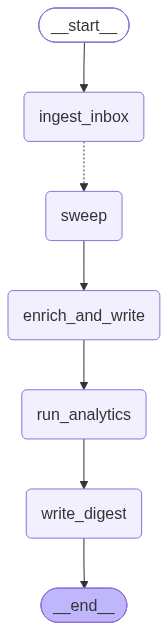
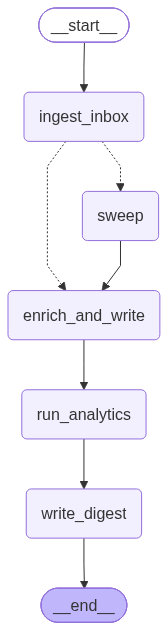
Fix two collect-graph bugs found by the digest-parity check
--skip-enrich only guarded the enrichment phase, not the cluster sweep,
so it still spent minutes probing - its help text promises "no network
calls" and the sweep is where most of them are. In the old script both
sat under one guard; the port kept half of it.

Worse, with no clusters to sweep, fan_out_clusters returned an empty
list. That does not skip the fan-out - it strands the rest of the graph,
because every downstream edge hangs off the node that never ran. The
run reported success and wrote no digest at all. It now routes past the
sweep instead.

Both were invisible until the digest was compared byte for byte: the
first parity check passed only because the digest already on disk was
never rewritten.

With them fixed, the collect graph reproduces the old daily_tracking.py
digest for 2026-09-18 exactly, modulo the Enrichment section that
--skip-enrich omits by design.

Diagrams regenerated for the new edge. 377 tests pass.

diff --git a/graph/nodes/collect.py b/graph/nodes/collect.py
@@ -71,9 +71,23 @@ def fan_out_clusters(state: dict) -> list[Send]:
     sweep is minutes of probe-VM round-trips that do not touch any other
     cluster's data, and they were serialized only because a for-loop is
     the obvious way to write it.
+
+    `skip_enrich` stops the fan-out entirely, not just the enrichment
+    phase. Its help text promises "no network calls", and the sweep is
+    where most of the network calls are - the first port of this kept only
+    the enrichment half of that guard, so --skip-enrich still spent
+    minutes probing.
     """
-    return [Send("sweep", {"cluster": slug, "day": state.get("day")})
-            for slug in state.get("clusters") or []]
+    if state.get("skip_enrich"):
+        return ["enrich_and_write"]
+    sends = [Send("sweep", {"cluster": slug, "day": state.get("day")})
+             for slug in state.get("clusters") or []]
+    # A conditional fan-out that returns nothing does not "skip the fan-out"
+    # - it strands the rest of the graph, because the edges downstream hang
+    # off the node that never ran. With --skip-enrich, or with no clusters
+    # registered yet, that silently produced no digest at all and reported
+    # success. Route past the sweep instead of returning an empty list.
+    return sends or ["enrich_and_write"]
 
 
 def sweep(payload: dict) -> dict:
@@ -105,6 +119,8 @@ def enrich_and_write(state: dict) -> dict:
     }
 
     if state.get("skip_enrich"):
+        sections["pivot_sweep"] = {"clusters_swept": 0, "errors": {},
+                                   "skipped": "skip_enrich"}
         sections["enrich"] = {"skipped": True}
         return {"sections": sections}
 

diff --git a/graph/build.py b/graph/build.py
@@ -29,7 +29,8 @@ def build_collect():
     g.add_edge(START, "ingest_inbox")
     # One `sweep` per cluster, all dispatched together. This is the loop
     # that used to be strictly sequential across eight clusters.
-    g.add_conditional_edges("ingest_inbox", collect.fan_out_clusters, ["sweep"])
+    g.add_conditional_edges("ingest_inbox", collect.fan_out_clusters,
+                            ["sweep", "enrich_and_write"])
     g.add_edge("sweep", "enrich_and_write")
     g.add_edge("enrich_and_write", "run_analytics")
     g.add_edge("run_analytics", "write_digest")

diff --git a/README.md b/README.md
@@ -1,93 +1,197 @@
-# cti-agent
+# cti-graph
 
-Portable capabilities for cross-harness testing (Claude Code, GitHub
-Copilot, Pi), split the way the harnesses expect:
+Threat-cluster tracking as a LangGraph pipeline, over STIX 2.1 and DuckDB.
+
+A fork of [`cti-agent`](../cti-agent) at `096160c`. That repo still works
+and still runs its cron; this one is not a drop-in replacement until you
+cut over deliberately (see **Cutover**).
 
 ```
-skills/threat-cluster-tracking/SKILL.md   # procedural knowledge, portable as-is
-.pi/skills/threat-cluster-tracking/       # same skill, mirrored for Pi's skill loader
-mcp-server/                               # tools: core logic + MCP + CLI surfaces
-  cti_tools/core.py                       # source of truth, no protocol code
-  cti_tools/stix.py                       # STIX 2.1 bundle (de)serialization
-  cti_tools/server.py                     # MCP surface (Claude Code, Copilot, Pi)
-  tests/                                  # pytest against core.py
-data/clusters/                            # local JSON + generated markdown, gitignored
-docs/pipeline.html                        # diagram-led walkthrough of the whole pipeline
-setup.sh                                  # creates the venv, wires .mcp.json
+cti/                    the library
+  store/                DuckDB: schema, observations, the change-detector registry
+  sources/              external data, one module each, over one transport
+  probe/                everything that leaves this host toward an indicator
+  clusters/ report/ attack/ tracking/ mcp/ stix.py
+graph/                  the pipeline
+  nodes/                rank, the four specialists, collect's Stage A nodes
+  prompts/              one prompt per specialist + the shared rules
+sandbox/                the analysis container (built and run ON the probe VM)
+probe_vm/               probe_helper.py + its bootstrap, deployed to the VM
+skills/                 the only committed copy; setup.sh mirrors it per harness
+dashboard/              read-only web UI, incl. the per-run node timeline
+docs/graph-*.mmd/.png   generated from the graph, not drawn by hand
 ```
 
-## How the pipeline fits together
+## What changed from cti-agent, and why
 
-`docs/pipeline.html` is a self-contained page (no build step — open it
-in a browser) walking the path an intel report takes: `ingest_report`'s
-three-phase write, what enrichment is now that the scan platforms are
-retired, which calls leave from this host versus the probe VM, the
-DuckDB change-detection layer, and the two-stage daily cron. Four
-diagrams carry it; read it before the prose in `mcp-server/README.md`
-if you want the shape before the detail.
+### Judgement runs in parallel
+
+Stage B was one `claude -p` pass over a 103-line prompt that encoded
+twelve distinct per-attribute judgements, capped at 3 items and 5 tool
+calls because that was the only way to bound one serial context.
+
+It is now four specialists running concurrently, each with a ~25-line
+prompt covering only the signals it owns, plus a `_common.md` for the
+rules that bind all of them:
+
+| Specialist | Owns |
+|---|---|
+| `infra_change` | `asn`, `ports`, `ptr`, `resolved_ip` |
+| `cert_tls` | `cert`, `cert_hash`, `http` |
+| `hosting` | `ip_hostnames`, `subdomains`, `webamon_fingerprint`, `infostealer_hits` |
+| `opendir` | `opendir_files`, plus sandbox verdicts |
+
+Writes stay centralized in one `persist` node. That is not style: DuckDB's
+write lock is process-exclusive and `connect_retry` retries only the
+connect, never the body, so four specialists calling `save_correlation`
+would surface as "tracking DB busy" rather than queueing.
+
+### Triage happens in code, before any token is spent
+
+`rank` normalizes the digest, scores each row and drops what is provably
+noise. On the 2026-09-18 digest it removes 7 of 16 rows — Cloudflare and
+AWS addresses listing other tenants' domains, kilobytes each, which the
+old single pass paid for in context and then had to reason around.
+
+The ASN list does that work and it has to. The tempting shortcut — "an IP
+listing dozens of unrelated domains is shared hosting" — is wrong:
+`208.91.112.55` carries 48 hostnames and is STAC4749's own infrastructure
+on AS40934, while the Cloudflare and AWS addresses beside it carry 40–50
+each. The counts are indistinguishable; the ASNs are not.
+
+### The pipeline is drawable, and runs are recorded
+
+`python -m graph draw` regenerates `docs/graph-{collect,analyze,daily}.{mmd,png}`
+from the graph object. It replaces `docs/pipeline.html`, which was good
+and had already drifted — drawn against a commit that has since moved,
+with a header that disagreed with `setup.sh` about when Stage B runs.
+
+Every run writes `data/runs/<day>.jsonl`: one record per node with
+timings, outputs and errors. `python -m graph trace --date <day>` prints
+the timeline; the dashboard's **Pipeline runs** view renders it with what
+the ranker suppressed and why.
+
+Stage A is in the same graph even though no model runs in it. The
+question at runtime is "which of these twenty things ran, and which was
+slow" — and half of them are collection. Its cluster sweep now fans out;
+the old loop swept eight clusters strictly one at a time.
+
+### Open-directory files are analyzed on the probe VM
+
+The VM has always *listed* open directories and never downloaded from
+them. `analyze_opendir_samples` fetches named files on the VM and triages
+them in a container with `--network=none`, `--read-only`, `--cap-drop=ALL`
+and no-new-privileges: sha256, detected type, YARA matches, a strings
+sample, extracted URLs and addresses. The staging directory is removed in
+a `finally` block.
+
+Only that JSON crosses the SSH channel. **There is no code path on this
+host that receives file bytes** — which is the requirement, and also why
+the container lives on the VM that did the download rather than here.
+
+It is gated separately from `active_scan`. Listing a directory is
+reconnaissance; downloading staged payloads is collection.
+
+### Redundancy
+
+Thirteen confirmed duplications collapsed — most of them documented in
+the old repo's own comments, which is how they survived. The ones that
+mattered:
+
+- **Ten `_record_*_change` functions and twelve `latest_*_for` queries**
+  → ten `AttributeSpec` entries and one driver. Twenty-two functions,
+  ~500 lines, expressing ten table rows' worth of difference.
+- **Four HTTP transports** → `sources/http.py`, where `via="probe"` vs
+  `via="direct"` makes the OPSEC decision a required argument.
+- **Three file-backed TTL caches** → `sources/cache.py`, one file per
+  key. The pivot cache was an 8.8 MB JSON dict re-read and re-written in
+  full on every miss, under a lock, from a six-thread pool.
+- **Three separately-counted API budgets** → `sources/budget.py`, which
+  reserves under one `flock` before the call. Checking and incrementing
+  separately is exactly the race a fan-out exposes.
+- **Two ASN normalizers that disagreed** — `lstrip("AS")` takes a
+  character set, so `" AS16509"` parsed as `16509` in one and `None` in
+  the other.
+
+### The observations table went narrow
+
+52 columns became a five-column spine plus a JSON `payload`, with an
+`observations_wide` view projecting the original names so the analytics
+SQL, the dashboard and `query_duckdb` are textually unchanged. The old
+table needed 36 idempotent `ALTER TABLE`s on every read-write connect,
+because each new source added columns and retired ones left theirs behind.
+
+Retired-provider columns are kept: they hold real history (154 Shodan
+rows, 20 Cert Spotter rows). So are the five that measure 100% NULL —
+`campaign`, `source_url`, `abuse_contact`, `hl_events_7d` and
+`infostealer_urls` are all still written or read. Empty today is not the
+same as unused.
+
+## Why this is still Python
+
+The HTTP work was already parallel (`ThreadPoolExecutor` in the cluster
+sweep and the fingerprint dispatcher), and nearly all indicator-facing
+traffic is not HTTP from this process at all — it is one JSON object over
+SSH to the probe VM, multiplexed over a shared ControlMaster. The ceiling
+is vendor rate limits (HoneyLabs at 10/min and 400 credits/day, a Webamon
+daily quota, RDAP capped at 150/day), not concurrency. Go would have meant
+reimplementing `vm_proxy`, `stix.py` and the store across a process
+boundary for no measured gain.
+
+## Why the Claude Agent SDK rather than ChatAnthropic
+
+The only LLM call in `cti-agent` was `claude -p`, on a Claude
+subscription; there is no `ANTHROPIC_API_KEY` here. `ChatAnthropic` would
+need one and would bill per token — which matters when the point is to
+run *more* model passes per day. The SDK also speaks MCP natively, so a
+specialist gets `query_duckdb` and `get_actor_summary` by naming them,
+rather than needing a second definition of each tool to keep in sync.
+
+The cost: nodes are async subprocess turns, so the graph is driven with
+`ainvoke`. LangGraph runs async nodes concurrently anyway, which is what
+the fan-out needs.
 
 ## Quick start
 
 ```bash
-./setup.sh
+./setup.sh                      # venv, .mcp.json, skill mirrors
+python -m graph draw            # regenerate the diagrams
+python -m graph collect         # Stage A  (defaults to today)
+python -m graph analyze         # Stage B
+python -m graph analyze --dry-run --date 2026-09-18   # no writes
+python -m graph trace --date 2026-09-18               # node timings
+pytest                          # 377 tests
 ```
 
-This creates `mcp-server/.venv`, installs `cti_tools` into it, and
-rewrites `.mcp.json` with absolute paths for your checkout (MCP stdio
-configs need real paths — see `mcp-server/README.md` for why
-`${workspaceFolder}`-style variables aren't relied on here). Re-run it
-after cloning to a new machine or moving the repo.
+Secrets stay in the environment (`~/.bashrc`, which cron sources):
+`WEBAMON_API_KEY`, `HONEYLABS_API_KEY`, `THREATFOX_API_KEY` (optional).
+Probe VM: `CTI_PROBE_HOST`, `CTI_PROBE_USER`, `CTI_PROBE_SSH_KEY`,
+`CTI_PROBE_KNOWN_HOSTS`, `CTI_PROBE_HELPER_CMD`.
 
-API keys are passed through as env vars (keep them in `~/.bashrc`,
-which cron sources too — never in the repo; `.env` is gitignored):
-`WEBAMON_API_KEY` (Webamon scan-index/infostealer enrichment — the
-passive layer that replaced VirusTotal/Shodan/Hackertarget/Cert
-Spotter), `HONEYLABS_API_KEY` (HoneyLabs honeypot telemetry — both the
-per-IP pivot enrichment and the `honeylabs` remote MCP server that
-`.mcp.json` wires up), and optionally `THREATFOX_API_KEY`. A missing
-key degrades to a skip note or error dict, never a crash.
+## Cutover
 
-Live interaction with an indicator (TLS grab, HTTP probe, DNS,
-subfinder/Wayback, and the on-demand nmap/dirsearch `active_scan`)
-runs from a lab probe VM over SSH, configured via `CTI_PROBE_HOST`,
-`CTI_PROBE_USER`, `CTI_PROBE_SSH_KEY`, `CTI_PROBE_KNOWN_HOSTS`, and
-`CTI_PROBE_HELPER_CMD` — see "Probe VM build" in `mcp-server/README.md`.
+`cti-agent` is untouched and its cron still runs. Two repos must not write
+the same DuckDB file — it is process-exclusive for read-write — so
+`data/` here is a snapshot, already migrated.
 
-Then, per harness:
+1. Stop the old cron (`crontab -e`) and its dashboard
+   (`systemctl --user stop cti-dashboard`).
+2. Re-copy `data/` from `cti-agent` and re-run
+   `scripts/migrate_schema.py SOURCE DEST --verify`.
+3. Deploy the probe VM bootstrap: `probe_vm/setup_probe_vm.sh` (it builds
+   the sandbox image and fails if `--network=none` lets a container reach
+   the network).
+4. Install the cron lines `./setup.sh` prints.
+5. Run one day through both pipelines and diff the narratives.
 
-- **Claude Code** — native MCP support. `.mcp.json` and
-  `.claude/skills/threat-cluster-tracking/` are both already wired by
-  `setup.sh` (the latter is a mirror of `skills/threat-cluster-tracking/`,
-  refreshed on every run).
-- **GitHub Copilot** — native MCP support via `.mcp.json` (already
-  wired by `setup.sh`); put `skills/threat-cluster-tracking/` wherever
-  its own Agent Skills loader reads from.
-- **Pi** — MCP support via the `pi-mcp-adapter` package
-  (https://pi.dev/packages/pi-mcp-adapter), wired up through
-  `.pi/mcp.json` (already written by `setup.sh`).
-  `.pi/skills/threat-cluster-tracking/` is already in place.
-
-See `mcp-server/README.md` for full install/wiring details, provider
-notes (Ollama / Anthropic subscription), and how clustering maps onto
-STIX 2.1 for sharing outside this tool.
+Until then, point this checkout at its own copy with `CTI_DUCKDB_PATH`
+and `CTI_DASHBOARD_PORT`.
 
 ## Threat cluster tracking, briefly
 
-Each cluster is a Diamond-Model-shaped JSON record (adversary,
-capability, infrastructure, victim) plus STIX-flavored profile fields
-(aliases, confidence, first/last seen), an ATT&CK TTP coverage table, a
-detection inventory, a gaps backlog, and an append-only hunt log. A
-markdown view is regenerated alongside the JSON on every write — don't
-hand-edit the `.md`, it's derived.
-
-Clusters export as STIX 2.1 bundles (Intrusion Set + Attack Pattern +
-Relationship + Note) and can ingest bundles from other tools, so a
-cluster tracked here is portable to any STIX-consuming platform without
-a bespoke converter.
-
-Clusters can also be populated directly from a threat report (URL or
-local file): `ingest_report` extracts hashes/domains/IPs/URLs/TTPs and
-files them into an existing or new cluster (inferring the cluster name
-from the report text when not given explicitly), and `get_observables`
-lists everything gathered for a cluster so far. See
-`mcp-server/README.md` for the extraction/attribution caveats.
+Unchanged from `cti-agent`. Each cluster is a Diamond-Model JSON record
+(adversary, capability, infrastructure, victim) plus STIX profile fields,
+an ATT&CK TTP coverage table, a detection inventory, a gaps backlog and an
+append-only hunt log. Clusters export as STIX 2.1 bundles (Intrusion Set +
+Attack Pattern + Relationship + Note) and can ingest bundles from other
+tools. `docs/architecture.md` has the full detail.
